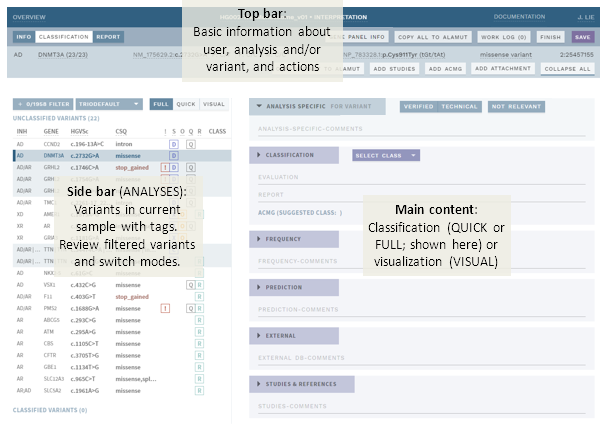
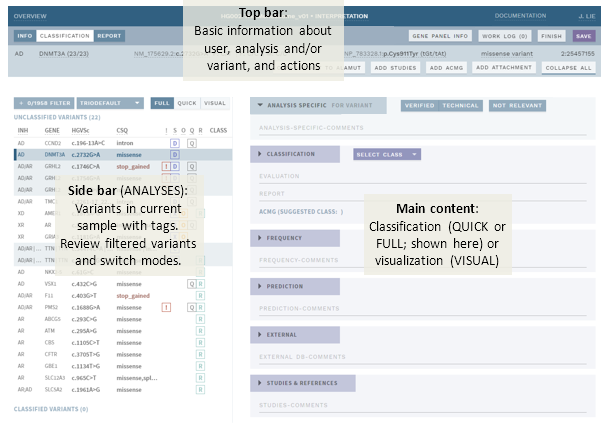
[docs] Added release notes and changes for !381, !382, !383, !384, !385, !386, !387.

diff --git a/docs/releasenotes/README.md b/docs/releasenotes/README.md
@@ -12,29 +12,53 @@ Release date: [TBD]
 
 ### Highlights
 
-This version adds some minor fixes to the finalize variant functionality introduced in version 1.9, as well as support for a new version of VEP. 
+This version adds bugfixes and improvements to the finalize variant functionality introduced in version 1.9, support for a new version of VEP, as well as several minor UI improvements. 
 
 ### All changes
 
+#### Finalize variant fixes and improvements
 <!-- MR !375 -->
-- Disallow finalize for an analysis when there are unsaved changes in REPORT (CLASSIFICATION mode, user must push `SUBMIT REPORT` first).
-- Added button for [undoing changes](/manual/classification-section.html#update-submit-report-only) to REPORT (CLASSIFICATION mode).
+- Disallow finalize for an analysis when there are unsaved changes in REPORT (CLASSIFICATION page, user must push `SUBMIT REPORT` first).
+- Added button for [undoing changes](/manual/classification-section.html#update-submit-report-only) to REPORT comment on CLASSIFICATION page.
 <!-- MR !376 -->
 - Fixed issue where variants present in multiple proband samples within an analysis could not be finalized.
+
+#### Support for new VEP version
 <!-- MR !371 -->
-- Added support for updated version of VEP (v98.3), including fixes for:
-    - Fetching latest HGNC symbol (using RefSeq GFF files).
-    - Choosing the correct RefSeq transcript version. If possible, the version specified in the gene panel is chosen, otherwise the latest available version is used.
+Added support for updated version of VEP (v98.3), including fixes for:
+- Fetching latest HGNC symbol (using RefSeq GFF files).
+- Choosing the correct RefSeq transcript version. If possible, the version specified in the gene panel is chosen, otherwise the latest available version is used.
+
+#### Other UI improvements and bugfixes 
 <!-- MR !369 -->
 - Added auto-scroll to top in main window when switching between variants in ANALYSES view.
-<!-- MR !378-->
-- Adjusted position of modals to allow viewing variant information in top bar when modal is open.
-<!-- MR !379 -->
-- Fixed an issue with wrong navbar height calculation causing extra scrollbars and wrong page height.
 <!-- MR !367 -->
 - Changed `HI FREQ` and `HI COUNT` in QUICK mode to display `0` instead of `-` when all sources report 0 frequency.
+<!-- MR !378-->
+- Adjusted position of modals to allow viewing variant information in top bar when modal is open.
+<!-- MR !387 -->
+- Removed `COPY ALL TO ALAMUT` button.
+<!-- MR !381 -->
+- Changed default view in WORKLOG to `MESSAGES ONLY`.
+<!-- MR !382 -->
+- Increased custom gene panel name character limit to 20.
+<!-- MR !385 -->
+- Increased height of batch filter box when creating custom gene panels.
+<!-- MR !384 -->
+- Adjusted delay for popovers.
 <!-- MR !364 -->
 - Improved help text for RIS format import.
+
+<!-- MR !386 -->
+- Fixed word wrap in popover comment fields (ACMG comment and WORKLOG).
+<!-- MR !379 -->
+- Fixed an issue with wrong navbar height calculation causing extra scrollbars and wrong page height.
+<!-- MR !383 -->
+- Fixed bug where variants with no transcripts were not filtered on frequency.
+
+
+
+
 
 
 ## Version 1.9

diff --git a/docs/manual/classification-page.md b/docs/manual/classification-page.md
@@ -114,7 +114,7 @@ If you are in an offline environment, when you click one of these, instead of op
 
   - For web links, click on the link, then (as you get the message COPIED LINK TO CLIPBOARD) open a browser on your local computer and paste (Ctrl+V) the contents into the address bar, then hit Enter
 
-  - For Alamut, click either `COPY ALL TO ALAMUT` or `COPY VARIANT TO ALAMUT` in the top bar, then (as you get the message COPIED TEXT TO CLIPBOARD) paste (Ctrl+V) the contents in the "Go to:" input field at the top right of the Alamut main window:  
+  - For Alamut, click the `COPY VARIANT TO ALAMUT` in the top bar, then (as you get the message COPIED TEXT TO CLIPBOARD) paste (Ctrl+V) the contents in the "Go to:" input field at the top right of the Alamut main window:  
       
     <div style="text-indent: 4%;"><img src="./img/alamut.png"></div>
 

diff --git a/docs/manual/top-bar.md b/docs/manual/top-bar.md
@@ -23,7 +23,6 @@ If available, the RefSeq transcript version used in the HGVSc variant name in th
 Button  | Explanation | More information
 :---  | :---  | :---
 `GENE PANEL INFO` | Show information about the gene panel used in the current analysis. | [Gene panel info](/manual/info-page.html#gene-panel-info)
-`COPY ALL TO ALAMUT`  | Copy all variants in analysis to clipboard in Alamut format. | [Links](/manual/classification-page.html#links-to-the-web-and-alamut)
 `WORK LOG`  | System and user messages related to current analysis/interpretation. |  [Work log](/manual/worklog.md)
 `START` / <br>`FINISH`+`SAVE` | Start, save changes and finish an analysis or interpretation. | [Start](/manual/classification-page.html#start-an-analysis-or-interpretation); [Save/Finish](/manual/classification-page.html#save-and-finish)
 

diff --git a/docs/README.md b/docs/README.md
@@ -3,7 +3,7 @@ sidebar: false
 ---
 
 <div style="text-align: center;">
-	<div style="padding-top: 50px;">
+	<div style="padding-top: 7%;">
 		<img width="350px;" src="./ella-docs_blue.svg">
 	</div>
 	<br>
